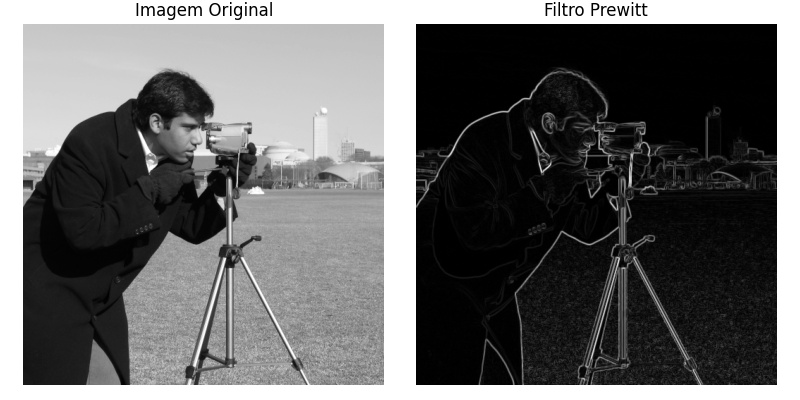
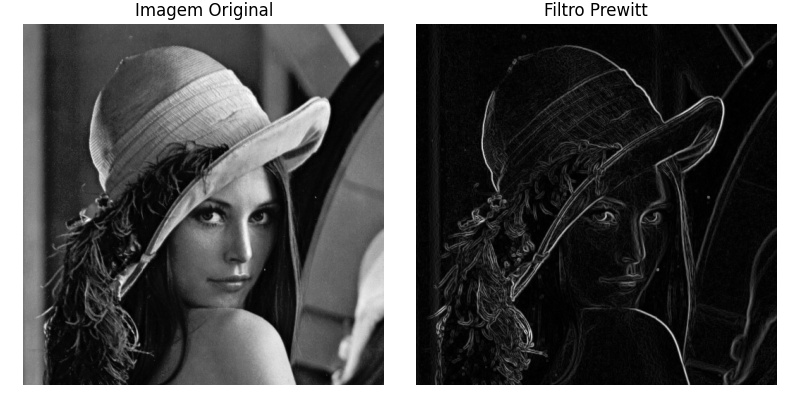
[UPD] #biblioteca - Teste prewitt biblioteca

diff --git a/prewitt_biblioteca.py b/prewitt_biblioteca.py
@@ -1,9 +1,11 @@
 # pip install scikit-image
+import cv2
 import matplotlib.pyplot as plt
 from skimage import filters
-from skimage.data import camera
 
-image = camera()
+# realiza a leitura da imagem
+image = cv2.imread('Fig2.ppm', cv2.IMREAD_GRAYSCALE)
+
 prewitt = filters.prewitt(image)
 # prewitt = filters.prewitt_h(image)
 # prewitt = filters.prewitt_v(image)

diff --git a/prewitt.py b/prewitt.py
@@ -46,5 +46,5 @@ class Prewitt:
 
 
 
-prewitt = Prewitt('Fig2.jpg')
+prewitt = Prewitt('Fig2.ppm')
 prewitt.generate()
